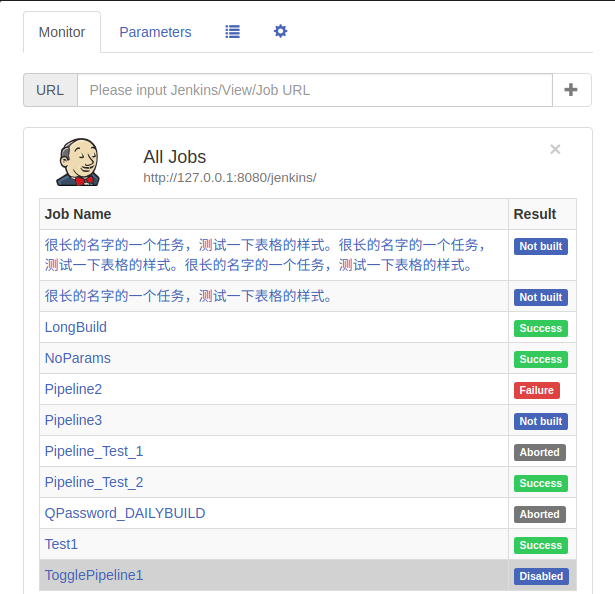
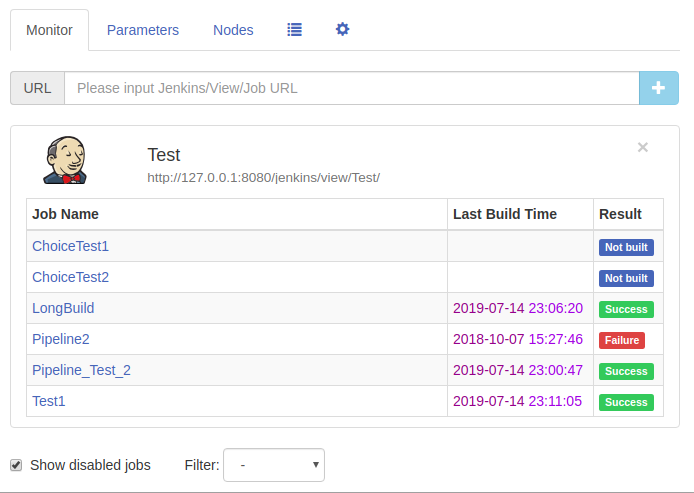
update README

diff --git a/README.md b/README.md
@@ -6,7 +6,7 @@
 
 
 
-一款能够极大地提高使用 **Jenkins** 的工作效率的 **Chrome浏览器扩展程序** 。
+一款能够极大地提高工作效率的 **Chrome浏览器扩展程序** 。
 
 ## 下载地址
 
@@ -18,22 +18,23 @@ https://chrome.google.com/webstore/detail/jenkins-helper/lkjoiakaidioklnfdejmnoe
 
 该扩展程序可以：
 
-1. **Job 监控**: 监控 Jenkins Job 的构建状态，构建完毕后显示通知。
+1. **Job 监控**: 监控 Jenkins Job 的构建状态，构建完毕后显示通知。提供“监视器”界面，可以随时查看所关注的 Job 的构建状态。提供筛选功能，可根据构建结果筛选 Job。
 
 ![Monitor](screenshots/monitor.png)
 
 > 注意：状态更新的频率以及通知频率可以在设置页更改。默认是60s更新一次状态，每次构建结束显示通知。
 
 
-2. **构建参数查看**： 在 每一个 Build 页面及其子页面下可方便快速查看构建信息以及构建参数。
+2. **构建参数查看**： 在每一个 Build 页面及其子页面下可方便快速查看构建信息以及构建参数。并提供查看上一次/下一次构建参数的按钮，可直接下载完整的构建日志到本地。
 
 ![Parameters](screenshots/params.png)
 
-> 注意：只有在构建页面及其子页面下才有数据，如：`http://127.0.0.1:8080/jenkins/job/Pipeline2/4/` 是构建页面，`http://127.0.0.1:8080/jenkins/job/Pipeline2/4/console` 是子页面。  
-> 支持 Pipeline 的 Blue Ocean 页面。
+> 注意：只有在构建页面及其子页面下才有数据，其他页面显示 “**No Data**”。 如：`http://127.0.0.1:8080/jenkins/job/Pipeline2/4/` 是构建页面，`http://127.0.0.1:8080/jenkins/job/Pipeline2/4/console` 是子页面。  
+
+> **支持 Blue Ocean 页面**。
 
 
-3. **节点磁盘空间监控**: 监控 Jenkins 节点的磁盘空间大小，如果节点剩余空间大小小于或等于给定的阈值，则弹框告警。
+3. **节点磁盘空间监控**: 监控 Jenkins 节点的磁盘空间大小，如果节点剩余空间大小小于或等于给定的阈值，则弹框告警。并提供“监视器”页面，可随时查看节点的剩余空间大小。
 
 ![Node Monitor](screenshots/node_monitor.png)
 
@@ -52,7 +53,15 @@ https://chrome.google.com/webstore/detail/jenkins-helper/lkjoiakaidioklnfdejmnoe
 
 > 注意：使用此功能需要提前在设置页配置好 **Job 统计设置（Job Statistics Settings）** 。
 
-6. **自定义设置**： 可以针对自己的独特需求进行一些个性化的设置。
+6. **参数暂存与恢复**： 在 **Build/Rebuild** 页面底部会生成两个按钮，分别是 **Stash Parameters** 和 **Recover Parameters**，点击 **Stash Parameters** 可以将当前页面填写的参数值保存起来，点击 **Recover Parameters** 可以将上次保存的参数值恢复到当前页面。
+
+![Params Stash And Recover](screenshots/params_stash_and_recover.png)
+
+> 注意：每一次新保存的参数都会将之前保存的参数覆盖掉，即 **Stash Parameters** 只会保存**一份**参数值。   
+> 支持 跨Job、跨Jenkins 使用，即 A Job 保存的参数可以恢复给 B Job 。
+
+
+7. **自定义设置**： 可以针对自己的独特需求进行一些个性化的设置。
 
 ![Settings](screenshots/settings.png)
 
@@ -61,7 +70,7 @@ https://chrome.google.com/webstore/detail/jenkins-helper/lkjoiakaidioklnfdejmnoe
 
 ## Tips
 
-1. 为了让该扩展可以顺利访问 Jenkins API 而不依赖用户登录，建议在设置界面配置 Jenkins 的 API Token ，如下图所示：
+1. 为了让该扩展可以顺利访问 Jenkins API 而不依赖用户在 Jenkins 网站的登录状态，建议在设置界面配置 Jenkins 的 API Token ，如下图所示：
 
 ![Jenkins Token Settings](screenshots/jenkins_token_settings.png)
 
